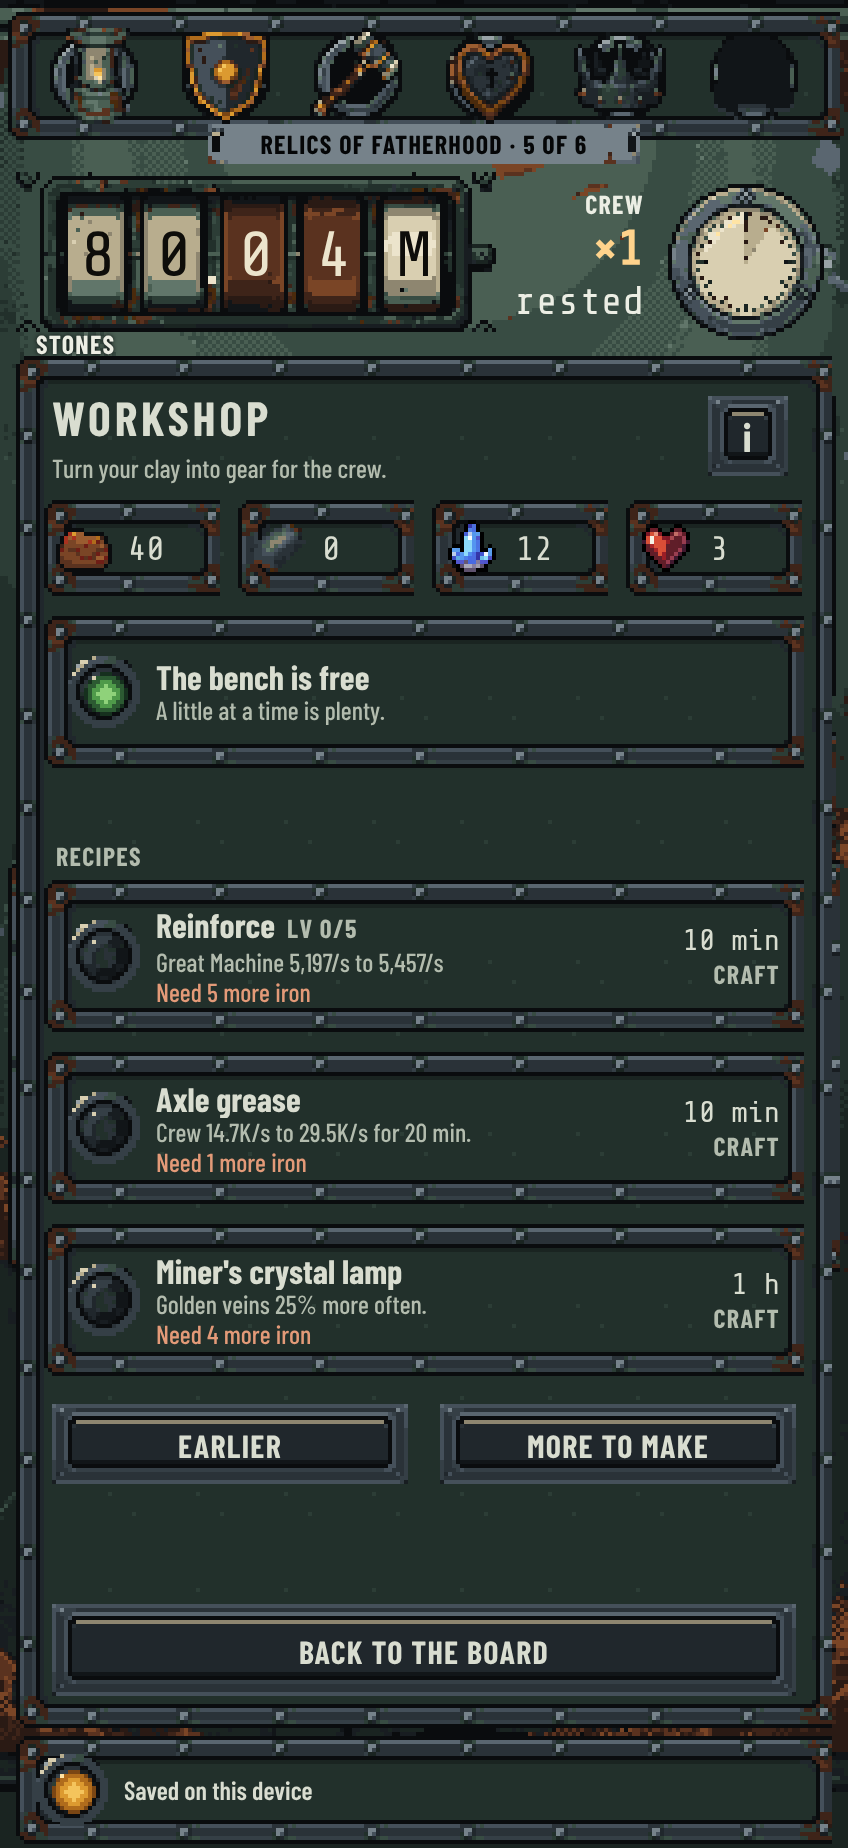
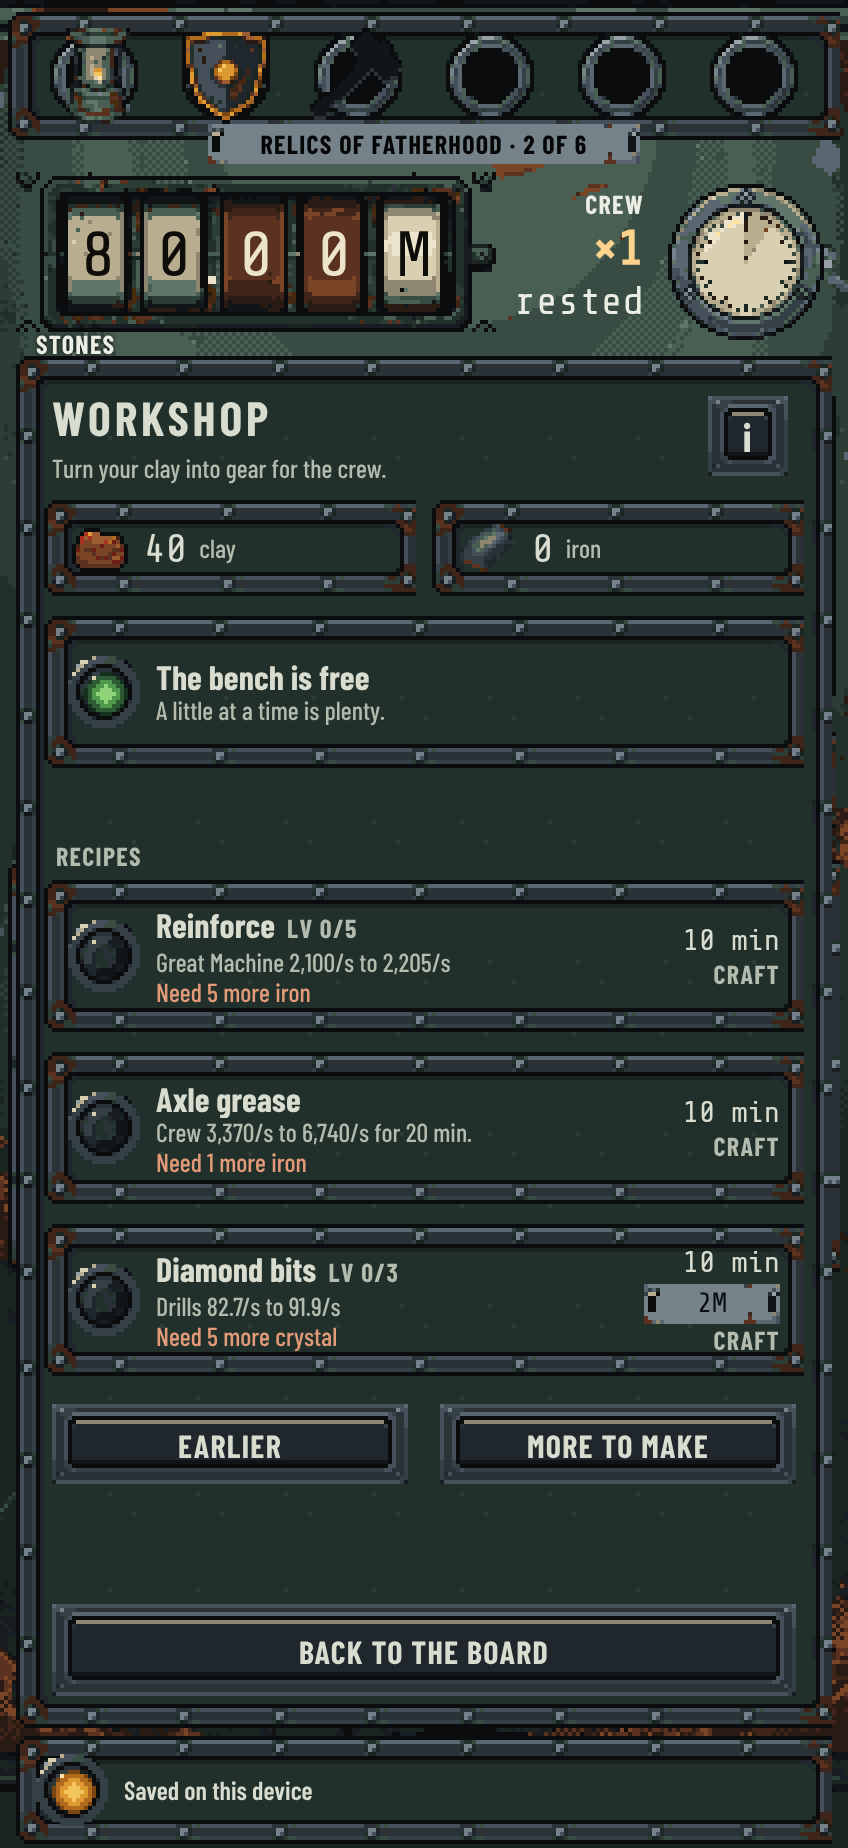
Reshoot the audit's need-more Workshop in the Granite (#492)
Claude-Session: https://claude.ai/code/session_011RgeWs8CEFvtZN4Zq15Zby

diff --git a/docs/ui-audit.md b/docs/ui-audit.md
@@ -33,7 +33,7 @@ Bars used below:
 | Workshop, cancel confirm | [shot](ui-audit/workshop-cancel-424x924.png)        | One tap on the bench row arms the cancel: its third line reads `Tap again to cancel`. Same row, no separate button or sheet; nothing moves.                                                                                                                                                                                                                                                                                                                                                                                                                                                                                                                                                                                                                                                                                                                       |
 | Workshop, reinforce      | [shot](ui-audit/workshop-reinforce-424x924.png)     | Page two (`Earlier` and `More to make` side by side). `Reinforce Lv 0/5` shows the real machine rates and `5 iron`, with no stone tag because its stone price is 0.                                                                                                                                                                                                                                                                                                                                                                                                                                                                                                                                                                                                                                                                                               |
 | Workshop, sketch         | [shot](ui-audit/workshop-sketch-424x924.png)        | A save that has not found the lamp or the kit: page two leads with the one dark `Sketch` row and today's hint (`A folded sketch, still in the dark.`), no numbers, over `Reinforce` and `Axle grease`. The first row's `Craft` sits at about 572px of 924, under the plates, the bench and the timers line's kept room.                                                                                                                                                                                                                                                                                                                                                                                                                                                                                                                                           |
-| Workshop, need more      | [shot](ui-audit/workshop-need-more-424x924.png)     | No iron in the pocket (the iron plate reads `0`). Page two's rows read `Need 5 more iron`, `Need 1 more iron` and `Need 4 more iron` in rust on `.workshop-recipe.is-short` rows, with dark lamps and a quiet `Craft`.                                                                                                                                                                                                                                                                                                                                                                                                                                                                                                                                                                                                                                            |
+| Workshop, need more      | [shot](ui-audit/workshop-need-more-424x924.png)     | In the Granite, where more iron still comes, with no iron in the pocket (the iron plate reads `0`). Page two's rows read `Need 5 more iron`, `Need 1 more iron` and `Need 5 more crystal` in rust on `.workshop-recipe.is-short` rows, with dark lamps and a quiet `Craft`.                                                                                                                                                                                                                                                                                                                                                                                                                                                                                                                                                                                       |
 | Craft done               | [shot](ui-audit/workshop-craft-done-424x924.png)    | A board card (#464): the fitted line is its title (`Your Iron rails are fitted. Carts now …/s.`), the cart's board icon at 64, and one plate, `The crew feels it`, focused as it opens. A short card by the thumb; the board above it dims to the save line.                                                                                                                                                                                                                                                                                                                                                                                                                                                                                                                                                                                                      |
 | Engineers, promote       | [shot](ui-audit/engineers-promote-424x924.png)      | The Engineers drawer (#455): Ada's row (`Apprentice`, `Tending the borers`) and the Promote row at the list's end, with the real price on its tag (labelled `Promote: … stones`) and the verb `Promote`. A tap asks on a drawer page: `… steps up as engineer. One worker fewer at the machines.`, with `Not yet` and `Step up`.                                                                                                                                                                                                                                                                                                                                                                                                                                                                                                                                  |
 | Engineers, her page      | [shot](ui-audit/engineers-page-424x924.png)         | Ada's page inside the drawer: five post rows with their machines' art, the borers `here now` with a green lamp, each other built tier's live gain (`+N stones/sec`), and the guided first trip alone across the plate row, `Send Ada exploring · 10 min` with the amber `New` flag; the drawer's `Back to the board` stays. Her duty sentence, with her own post's gain, is the kick.                                                                                                                                                                                                                                                                                                                                                                                                                                                                             |
